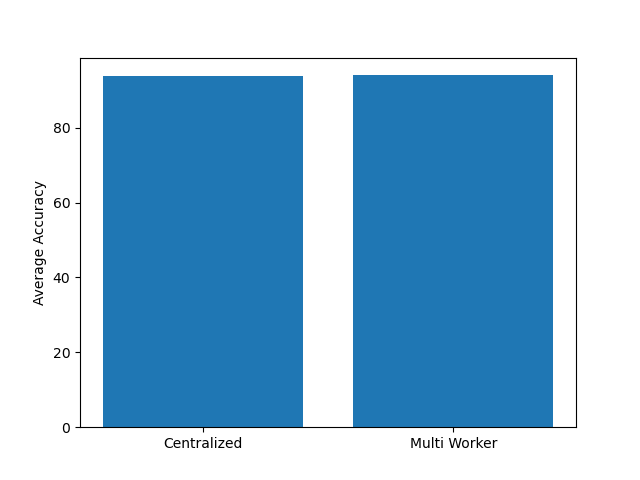
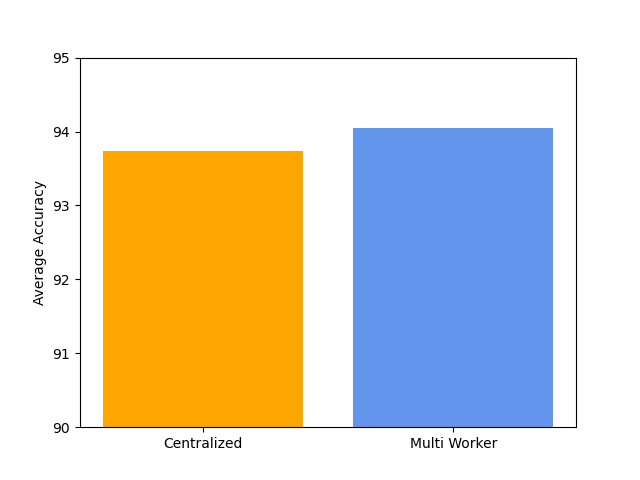
addressed bar chart, used y lim to show essnetial area, used orange an blue colors to match other figures

diff --git a/anomaly-detection/MatpltlibGen/figMaker.py b/anomaly-detection/MatpltlibGen/figMaker.py
@@ -144,7 +144,8 @@ def accuracy_avg_bar(plt):
     y_pos = np.arange(len(objects))
     avg_bar = plt
     avg_bar.style.use("default")
-    avg_bar.bar(y_pos, [cent_avg * 100, multi_avg * 100], align="center")
+    avg_bar.ylim(90, 95)
+    avg_bar.bar(y_pos, [cent_avg * 100, multi_avg * 100], align="center", color=("orange", "cornflowerblue"))
     avg_bar.xticks(y_pos, objects)
     avg_bar.ylabel("Average Accuracy")
     avg_bar.savefig(f"comparison_bar_avg_acc_e50_lr0001_bs128.png")
